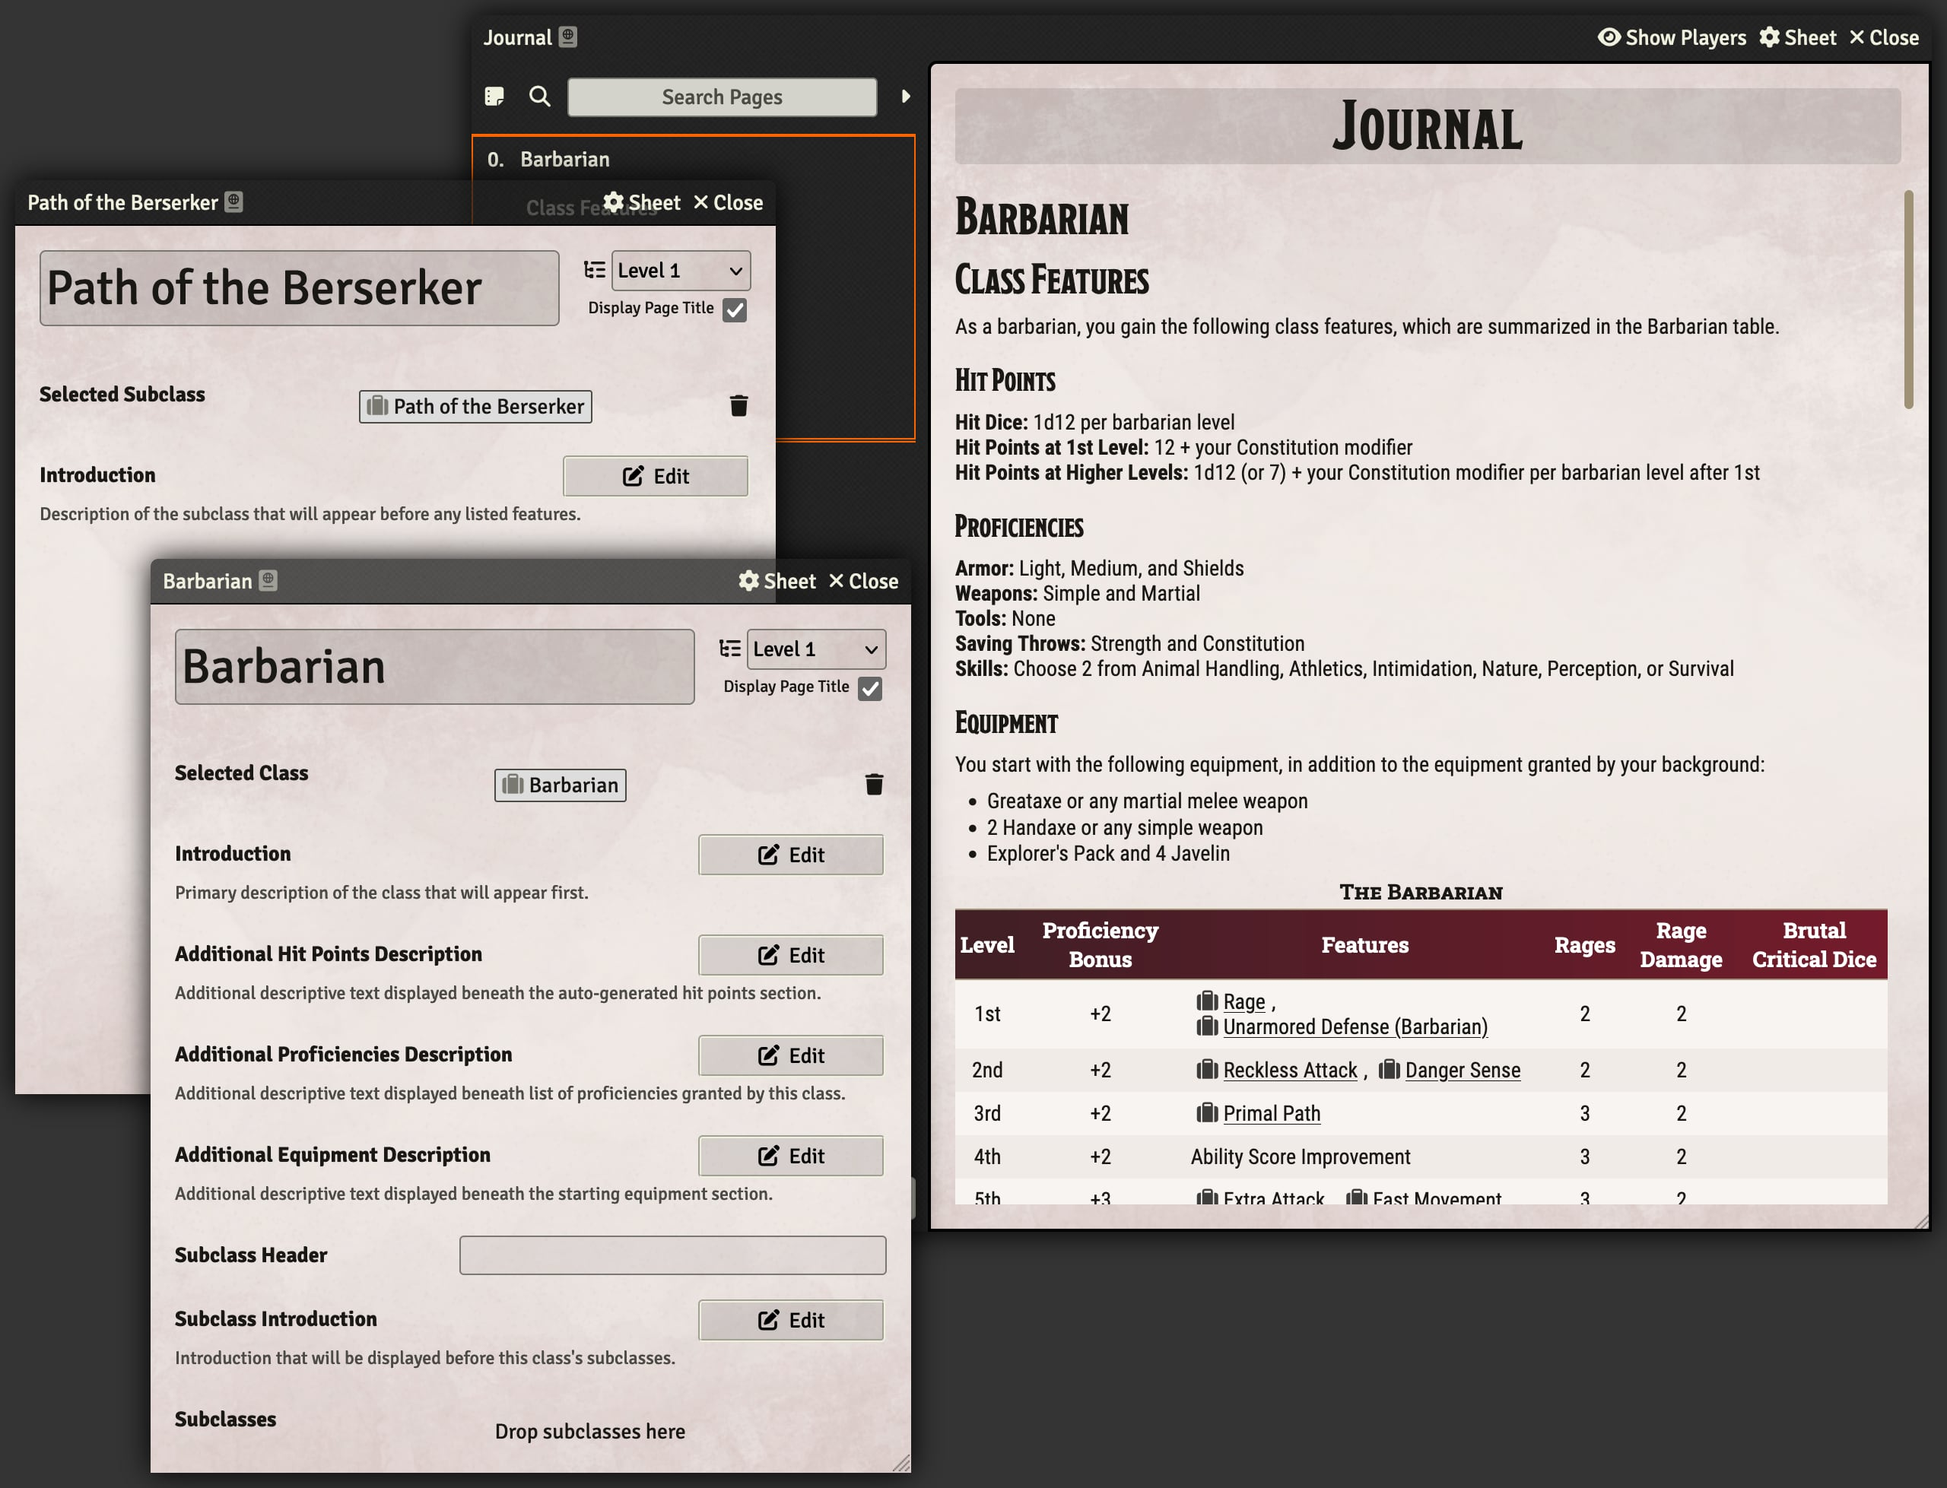
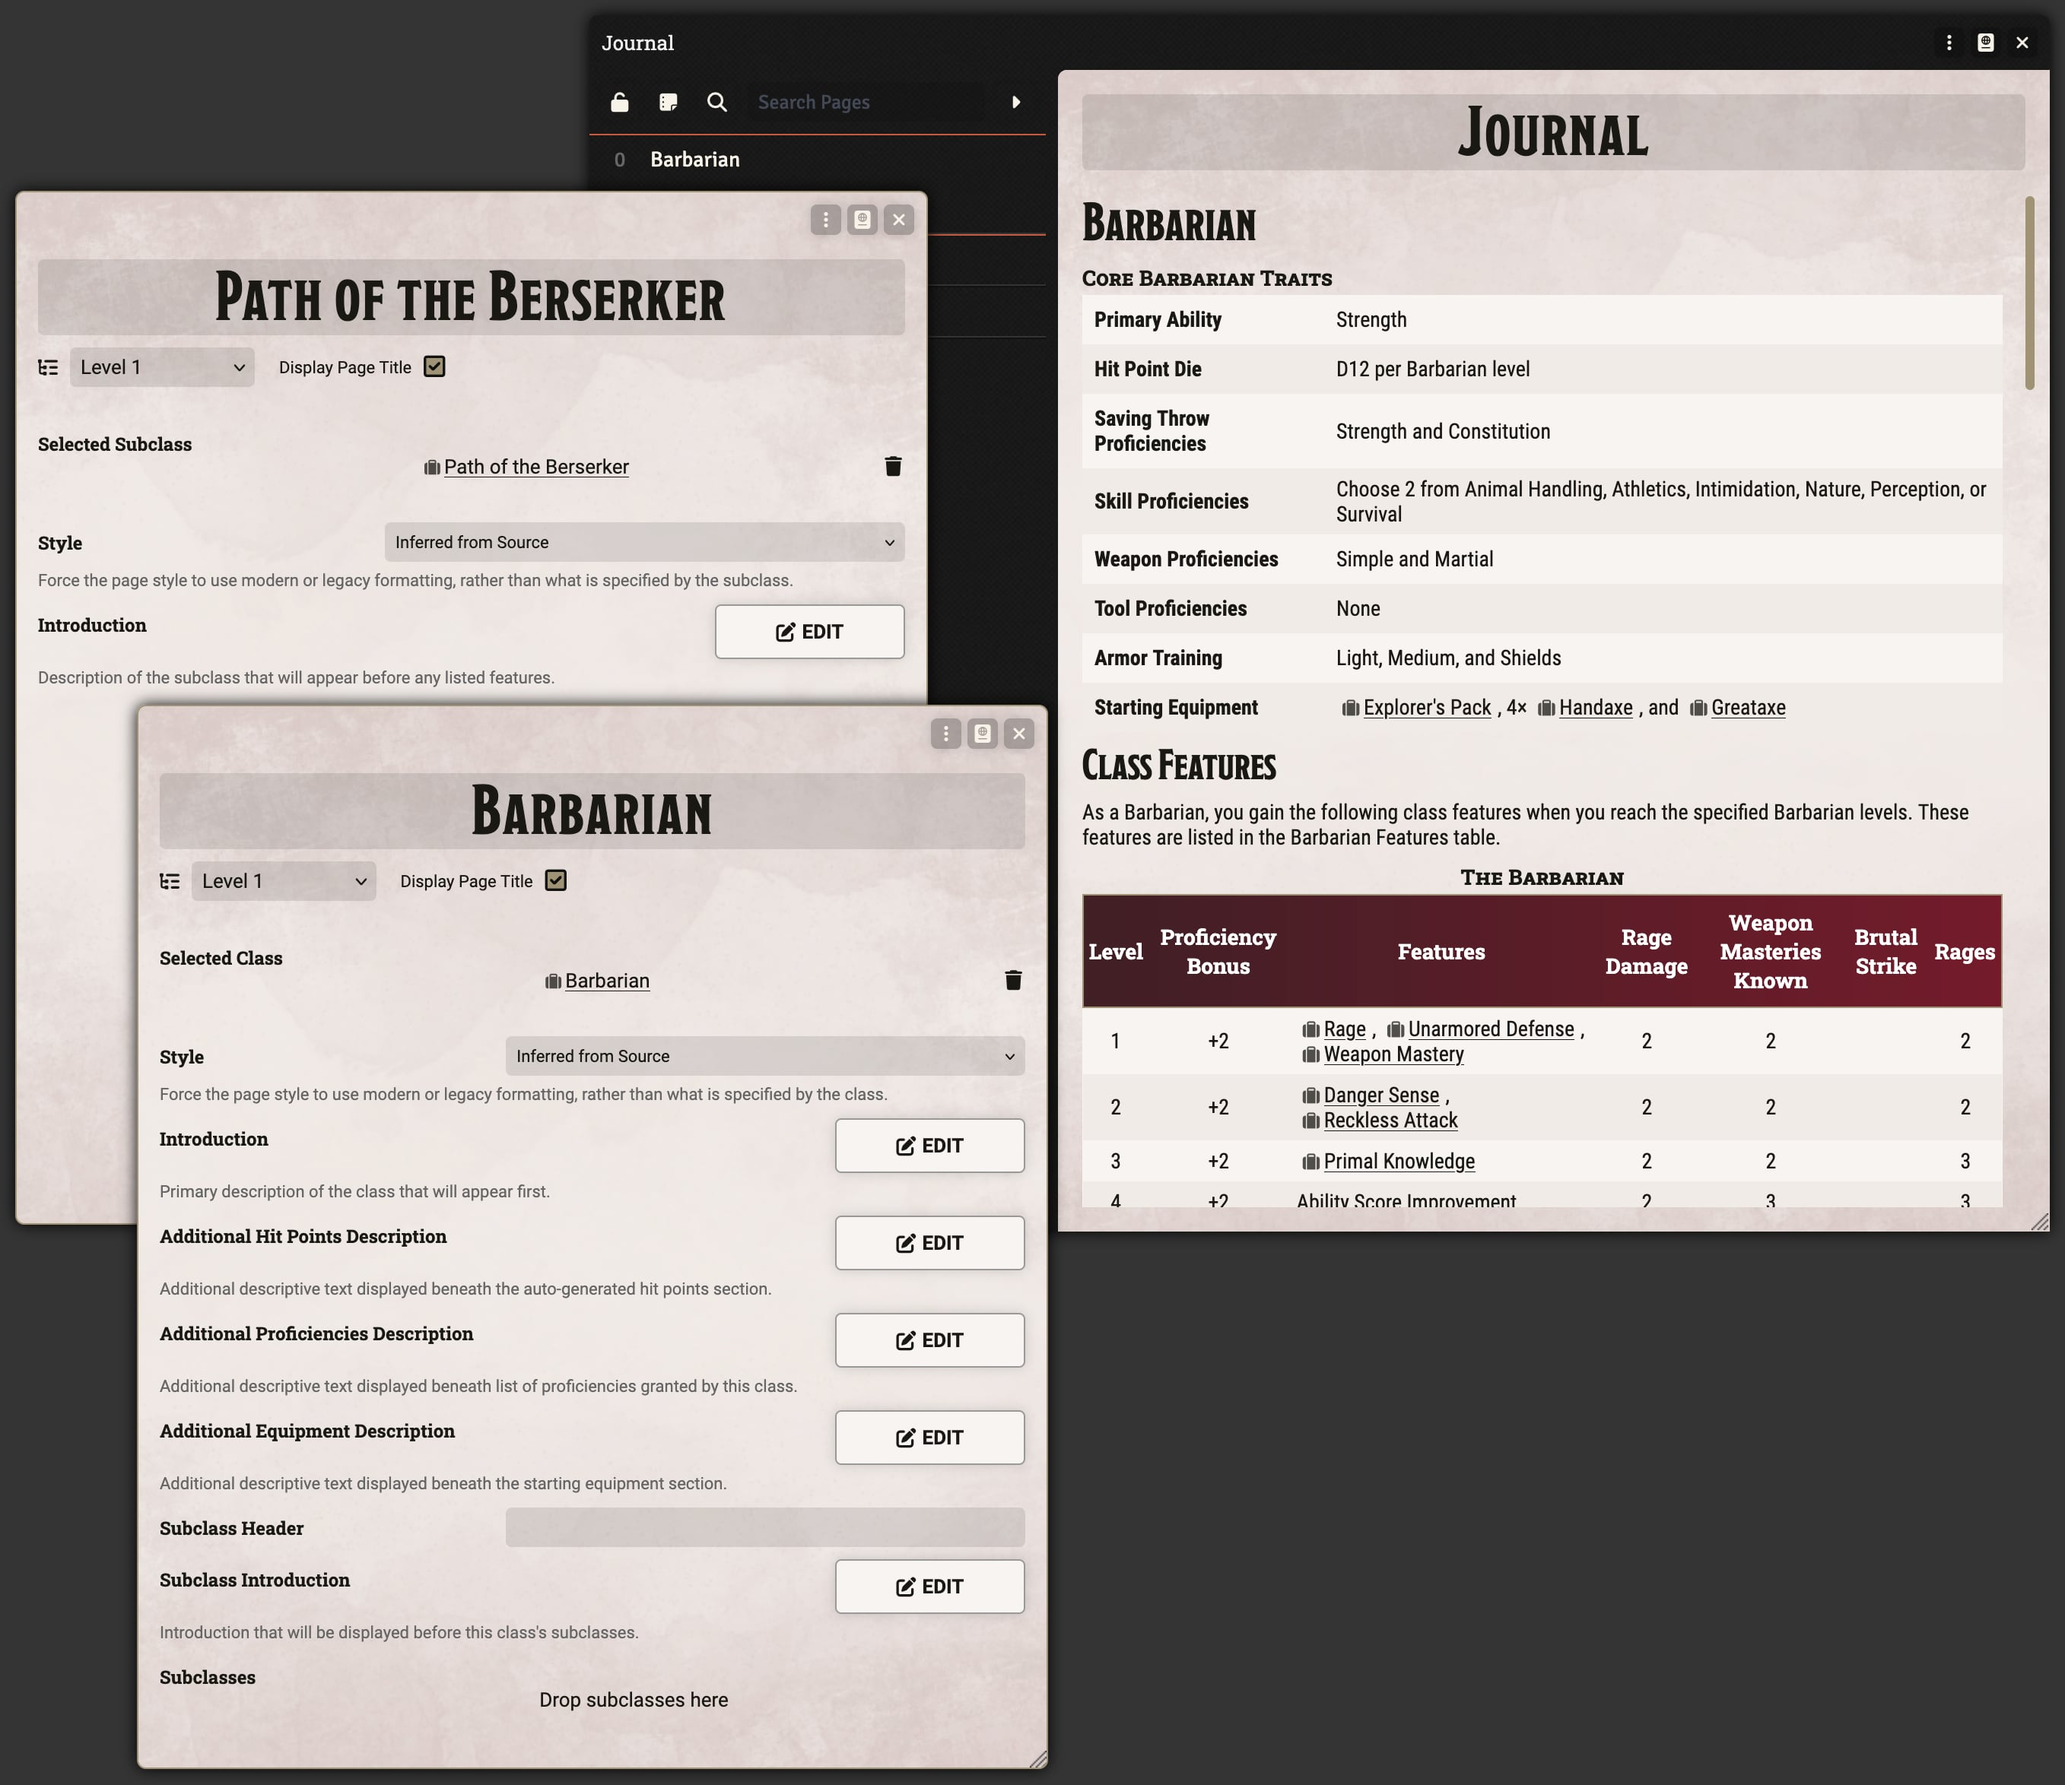
Update Journal Pages page on Wiki for 5.1 changes

diff --git a/wiki/Journal-Pages.md b/wiki/Journal-Pages.md
@@ -1,4 +1,4 @@
-![Up to date as of 3.3.0](https://img.shields.io/static/v1?label=dnd5e&message=3.3.0&color=informational)
+![Up to date as of 5.1.0](https://img.shields.io/static/v1?label=dnd5e&message=5.1.0&color=informational)
 
 The D&D system provides several new journal page types with specialized functionality.
 
@@ -11,6 +11,8 @@ The *Class Summary* and *Subclass Summary* journal page types provide automatica
 The automatic generation on these pages is based on data provided through advancement, so a class or subclass must have the appropriate advancement setup. Hit points will be calculated based on the selected hit die size, proficiencies will be derived from Trait advancements at first level, and equipment from the Starting Equipment configuration. The table will show all features granted at various levels as well as scale values and spellcasting details.
 
 A description can be provided in the editor that will appear at the start of the entry. *Class Summary* pages can also take additional descriptive text that will appear beneath the three sections at the beginning. Optionally subclasses can be added to the *Class Summary* page and they will be displayed below the class.
+
+There are a few formatting differences between the older style books and the modern modern ones. To take these changes into account, these journal pages will automatically adjust based on the rules version specified on the provided class. If a different formatting is desired, the *Style* option can be used to override the default formatting.
 
 ## Map Location
 
@@ -48,9 +50,9 @@ The *Spell List* journal page type provides an easy way to display a list of spe
 
 ![Spell List Page](https://raw.githubusercontent.com/foundryvtt/dnd5e/publish-wiki/wiki/images/journal/pages-spell-list.jpg)
 
-When creating a spell list any spells offered by the SRD or the current module can be dragged to the spell list. For modules referencing spells that might not be available, the plus control on the sidebar can be used to add an unlinked spell profile. This needs to contain the name, level, and school of the spell for proper organization. It can also contain information on the book where the spell can be found. The "Original Source" field takes a UUID of the spell, which will result in a link to that spell being displayed if the module that provides it is found. Otherwise its placeholder name will be displayed.
+When creating a spell list any spells offered by the SRD or the current module can be dragged to the spell list. For modules referencing spells that might not be available, the plus control on the sidebar can be used to add an unlinked spell profile. This needs to contain the name, identifier, level, and school of the spell for proper organization. It can also contain information on the book where the spell can be found. The "Original Source" field takes a UUID of the spell, which will result in a link to that spell being displayed if the module that provides it is found. Otherwise its placeholder name will be displayed.
 
-Spell lists have a type and identifier, which will enable features in the future for viewing merged spell lists from several sources through the compendium browser.
+Spell lists have a type and identifier, which enables viewing merged spell lists from several sources through the compendium browser as well as limiting choices through the [Choose Items advancement](Advancement-Type-Item-Choice.md) to certain spell lists.
 
 The default grouping mode can also be specified, though the viewer can always change how they view the list. Grouping can be performed by spell level, by spell school, or by the first letter of the spell's name.
 
